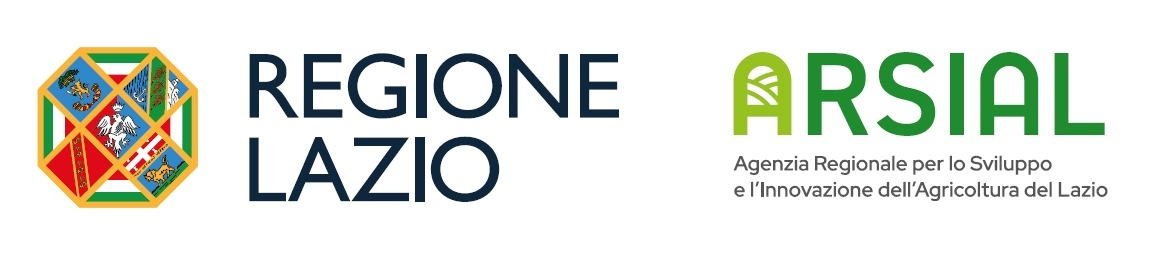
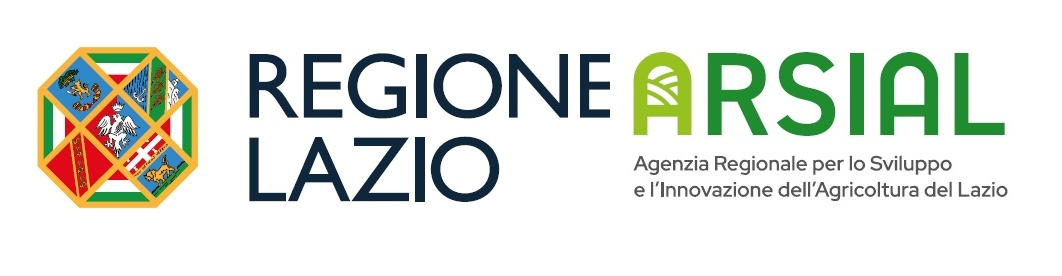
Header: dimensioni e allineamento loghi

Changed region(s): [[0.0311, 0.1449, 0.9633, 0.7536], [0.5904, 0.5507, 0.9633, 0.7246]]

diff --git a/styles.css b/styles.css
@@ -52,7 +52,7 @@ header {
     justify-content: space-between;
     align-items: center;
     padding: 0 2rem;
-    height: 100px;
+    height: 140px;
     background: var(--white);
     border-bottom: 1px solid var(--border);
     flex-shrink: 0;
@@ -62,11 +62,11 @@ header {
 .header-left {
     display: flex;
     align-items: center;
-    gap: 1.5rem;
+    gap: 0.75rem;
 }
 
 .header-left .logo img {
-    height: 70px;
+    height: 110px;
     width: auto;
     border-radius: 50%;
 }
@@ -83,8 +83,23 @@ header {
     gap: 1rem;
 }
 
+.header-contributo-wrapper {
+    display: flex;
+    flex-direction: column;
+    align-items: center;
+    gap: 0;
+}
+
+.contributo-label {
+    font-size: 0.5rem;
+    font-weight: 500;
+    color: var(--text-muted);
+    letter-spacing: 0.3px;
+    margin-bottom: 2px;
+}
+
 .header-contributo {
-    height: 80px;
+    height: 110px;
     width: auto;
     border-radius: 4px;
 }

diff --git a/index.html b/index.html
@@ -17,7 +17,10 @@
             <a href="https://www.olioromaigp.it" class="logo" aria-label="Vai al sito Olio di Roma IGP">
                 <img src="logo-consorzio.jpg" alt="Consorzio Olio di Roma IGP">
             </a>
-            <img src="loghi-contributo-v2.jpg" alt="Regione Lazio e ARSIAL" class="header-contributo">
+            <div class="header-contributo-wrapper">
+                <span class="contributo-label">Con il contributo di</span>
+                <img src="loghi-contributo-v2.jpg" alt="Regione Lazio e ARSIAL" class="header-contributo">
+            </div>
         </div>
         <div class="header-right">
             <span class="header-title">Olio di Roma IGP</span>
